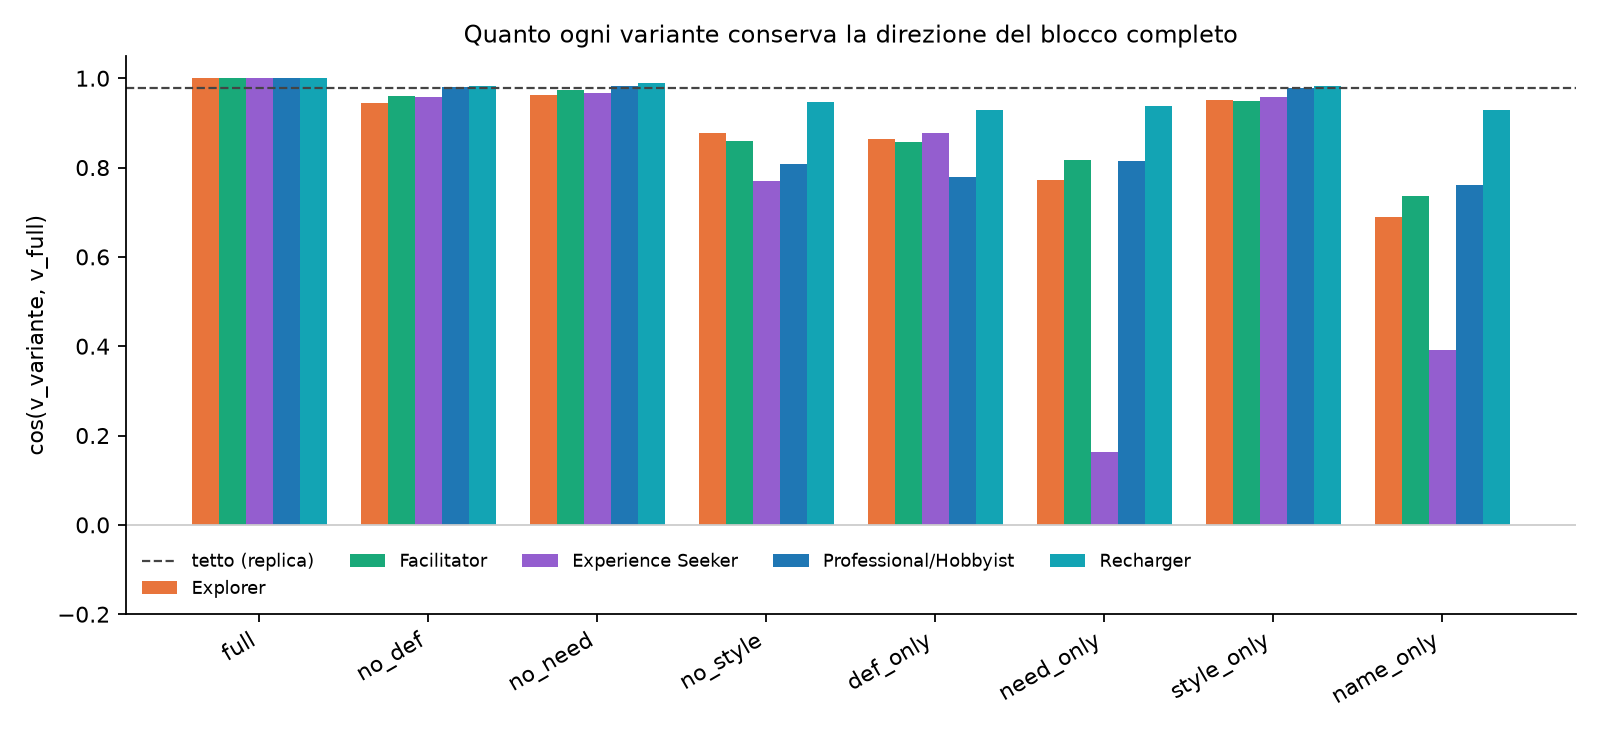
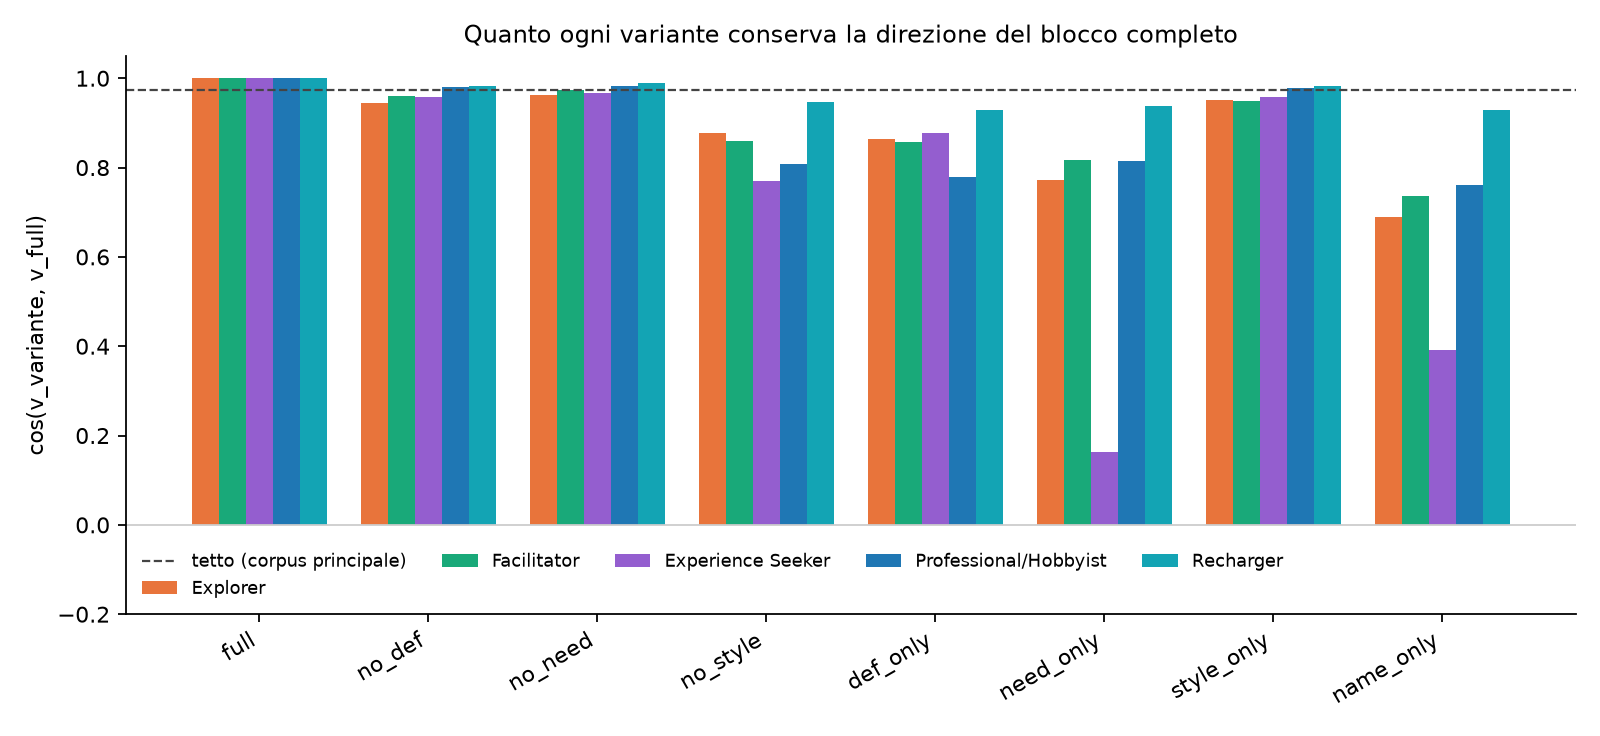
refactor(ablation): calibrate with the main corpus ceiling again
Both corpora are on DeepInfra fp8, so part 1 uses one ceiling (single_a vs
single_b). Only the cos/tetto column changes, by at most 0.01.

Changed region(s): [[0.0938, 0.0938, 0.9688, 0.125], [0.1562, 0.75, 0.8125, 0.7812]]

diff --git a/src/museumbot/rq1_embeddings/ablation.py b/src/museumbot/rq1_embeddings/ablation.py
@@ -10,14 +10,13 @@ ed e' lo stesso testo in tutte (embed.select_rows), quindi il riferimento e' ide
 varianti: con il centering sulla media, invece, il riferimento include le 5 categorie della
 variante e si sposterebbe con essa, contaminando il confronto con `full`.
 
-Corpus: `ablation` (common.corpus): tutte le varianti, la replica `full_rep` e il flat,
-generati su un provider fisso (DeepInfra fp8, ragionamento attivo) nella stessa sessione,
-puliti e senza le opere con testi troncati.
+Corpus: `ablation` (common.corpus): le varianti e il flat, generati su un provider fisso
+(DeepInfra fp8, ragionamento attivo), puliti e senza le opere con testi troncati.
 
 Calibrazione (`cos_rel`): il coseno con il full diviso per il tetto di rumore della
 generazione; ~1 vuol dire indistinguibile dal full, non soltanto "vicino". Il tetto e'
-cos(v_full, v_full_rep) dello stesso corpus: due run dello stesso prompt, stesso provider,
-stessa sessione, stesso flat.
+cos(v_full, v_full_rep) del corpus principale (results/metrics_<model>.json, sezione
+`ceiling`): due run dello stesso prompt sullo stesso provider.
 """
 
 import argparse
@@ -30,8 +29,7 @@ matplotlib.use("Agg")
 import matplotlib.pyplot as plt
 import numpy as np
 
-from museumbot.rq1_embeddings.analyze import (COLORS, center, load, probe, replicate_ceiling,
-                                               split_half, steering)
+from museumbot.rq1_embeddings.analyze import COLORS, center, load, probe, split_half, steering
 from museumbot.common.config import ROOT, emb_path
 from museumbot.common.prompts import CONDITIONS, FALK_CATEGORIES, LABELS, VARIANTS
 
@@ -92,21 +90,19 @@ def run(model: str) -> dict:
         per_variant[v], _ = analyse_variant(model, v, V_full)
 
     out = {"model": model, "variants": per_variant}
-    ceiling = own_ceiling(model)
+    ceiling = main_ceiling(model)
     if ceiling:
         out["ceiling"] = ceiling
         calibrate(per_variant, ceiling)
     return out
 
 
-def own_ceiling(model: str) -> dict[str, float] | None:
-    """Tetto del corpus: cos(v_full, v_full_rep) per categoria, sulle opere comuni."""
-    if not emb_path(model, "full_rep", CORPUS).exists():
+def main_ceiling(model: str) -> dict[str, float] | None:
+    """Tetto del corpus principale: cos(v_full, v_full_rep) per categoria."""
+    path = RESULTS / f"metrics_{model}.json"
+    if not path.exists():
         return None
-    X, arts, _ = load(model, "full", CORPUS)
-    Xr, arts_r, _ = load(model, "full_rep", CORPUS)
-    ceil = replicate_ceiling(X, arts, Xr, arts_r)
-    return {LABELS[c]: float(ceil[i]) for i, c in enumerate(FALK_CATEGORIES)}
+    return json.loads(path.read_text()).get("ceiling")
 
 
 def calibrate(per_variant: dict, ceiling: dict[str, float], key: str = "cos_rel") -> None:
@@ -132,7 +128,7 @@ def print_summary(res: dict) -> None:
             line += f" {r['cos_rel_mean']:10.3f}"
         print(line)
     if calibrated:
-        print("tetto (replica): "
+        print("tetto (corpus principale): "
               + "  ".join(f"{c} {v:.3f}" for c, v in res["ceiling"].items()))
 
 def fig_bars(res: dict, path: Path) -> None:
@@ -149,7 +145,7 @@ def fig_bars(res: dict, path: Path) -> None:
               w, color=COLORS[c], label=LABELS[c])
     if ceil:
         b.axhline(np.mean(list(ceil.values())), color="#444", ls="--", lw=1,
-                  label="tetto (replica)")
+                  label="tetto (corpus principale)")
     b.axhline(0, color="#ccc", lw=0.8)
     b.set_ylabel("cos(v_variante, v_full)")
     b.set_ylim(-0.2, 1.05)

diff --git a/docs/report-stato-progetto.md b/docs/report-stato-progetto.md
@@ -1,6 +1,6 @@
 # Museumbot — stato del progetto
 
-*Ultimo aggiornamento: 28 ottobre 2026. Il report descrive solo lo stato attuale del codice e
+*Ultimo aggiornamento: 29 ottobre 2026. Il report descrive solo lo stato attuale del codice e
 dei risultati; le decisioni e le correzioni nel tempo sono in `docs/decisioni.md`.*
 
 **Domanda di ricerca.** Quando un LLM genera un'audioguida "personalizzata" su una
@@ -60,11 +60,10 @@ ragionamento. Per questo:
   esplicitamente, provider registrato per riga e generati nella stessa sessione.
   `single_a` è la variante `full`, `single_b` la sua replica (`full_rep`), che dà il tetto
   di rumore; 140 testi su 1 100 hanno richiesto più di un tentativo;
-- il **corpus di ablazione** (`ablation`) ha le 8 varianti del blocco (§6), la replica
+- il **corpus di ablazione** (`ablation`) ha le 8 varianti del blocco (§6), una replica
   `full_rep` e il flat: anche questo tutto su DeepInfra fp8, con ragionamento attivato
-  esplicitamente e provider registrato per riga, in un'unica esecuzione del 27–28 ottobre
-  (rallentata dai limiti di frequenza del provider). È separato dal corpus principale: ha
-  un suo `full`, un suo flat e un suo tetto.
+  esplicitamente e provider registrato per riga. Ha un suo `full` e un suo flat; per la
+  calibrazione usa il tetto del corpus principale, che viene dallo stesso provider.
 
 `generate.py` salva il provider e i token di ragionamento di ogni risposta e accetta
 `--provider` (es. `deepinfra/fp8`) per fissarlo senza fallback e `--reasoning` per attivare
@@ -257,8 +256,7 @@ rigenera tutti i testi da capo, e la direzione di ogni categoria torna quasi ide
 valori sono più alti della split-half perché ogni stima usa 100 opere invece di 50. Sono
 più bassi per Explorer e Facilitator, che hanno gli shift più corti (§3.5): a parità di
 rumore, uno shift piccolo ne è disturbato di più. Questi valori sono il tetto usato per
-calibrare il confronto con la chain (§5); l'ablazione ha un tetto suo, dalla sua replica
-(§6.3).
+calibrare il confronto con la chain (§5) e l'ablazione (§6).
 
 ### 3.5 Geometria
 
@@ -494,16 +492,16 @@ confronto con il full.
 ### 6.1 Risultati per variante (Qwen3; BGE-M3 fra parentesi)
 
 Ordinate per coseno medio con il full. `cos/tetto` è il coseno con il full diviso per il
-coseno fra `full` e la sua replica `full_rep` nello stesso corpus (§6.3).
+tetto del corpus principale (§3.4, §6.3).
 
 | variante | probe 5 classi | ‖v‖ media | cos·full | cos/tetto | split-half |
 |---|---|---|---|---|---|
 | `full` | 98.2% (97.2%) | 0.235 (0.152) | 1.000 (1.000) | — | 0.88 (0.83) |
-| `no_need` | 99.2% (97.0%) | 0.240 (0.152) | 0.975 (0.948) | 1.00 (1.00) | 0.90 (0.84) |
+| `no_need` | 99.2% (97.0%) | 0.240 (0.152) | 0.975 (0.948) | 1.00 (0.99) | 0.90 (0.84) |
 | `no_def` | 98.2% (98.2%) | 0.234 (0.147) | 0.965 (0.945) | 0.99 (0.99) | 0.90 (0.83) |
-| `style_only` | 97.2% (97.0%) | 0.230 (0.145) | 0.964 (0.926) | 0.98 (0.97) | 0.89 (0.81) |
-| `def_only` | 97.0% (96.2%) | 0.180 (0.126) | 0.861 (0.864) | 0.88 (0.91) | 0.82 (0.77) |
-| `no_style` | 94.2% (92.4%) | 0.173 (0.119) | 0.853 (0.877) | 0.87 (0.92) | 0.81 (0.78) |
+| `style_only` | 97.2% (97.0%) | 0.230 (0.145) | 0.964 (0.926) | 0.99 (0.97) | 0.89 (0.81) |
+| `def_only` | 97.0% (96.2%) | 0.180 (0.126) | 0.861 (0.864) | 0.88 (0.90) | 0.82 (0.77) |
+| `no_style` | 94.2% (92.4%) | 0.173 (0.119) | 0.853 (0.877) | 0.88 (0.92) | 0.81 (0.78) |
 | `name_only` | 87.0% (83.6%) | 0.146 (0.104) | 0.702 (0.681) | 0.72 (0.71) | 0.68 (0.63) |
 | `need_only` | 90.4% (89.8%) | 0.158 (0.111) | 0.701 (0.735) | 0.72 (0.77) | 0.76 (0.74) |
 
@@ -545,18 +543,15 @@ dal nome.
 
 ### 6.3 Calibrazione
 
-Il tetto è quello del corpus di ablazione (sezione `ceiling` di `results/ablation_*.json`):
-il coseno fra gli steering vector di `full` e della replica `full_rep`, generati con lo
-stesso provider e con lo stesso flat. Vale 0.969, 0.972, 0.980, 0.985, 0.990 per Explorer,
-Facilitator, Experience Seeker, Professional/Hobbyist, Recharger (0.934, 0.897, 0.970,
-0.974, 0.987 su BGE-M3), in linea con il tetto del corpus principale (§3.4). `full` è
-stato generato il 27 ottobre e quasi tutta la replica il 28: un'eventuale deriva fra i due
-giorni abbasserebbe il tetto e renderebbe i rapporti conservativi.
+Il tetto è quello del corpus principale (§3.4): il coseno fra gli steering vector di
+`single_a` e `single_b`, due run dello stesso prompt sullo stesso provider del corpus di
+ablazione. Vale 0.957, 0.958, 0.980, 0.985, 0.990 per Explorer, Facilitator, Experience
+Seeker, Professional/Hobbyist, Recharger (0.937, 0.905, 0.973, 0.977, 0.985 su BGE-M3).
 
 Rapportate al tetto (colonna `cos/tetto` in §6.1), `no_need` vale 1.00 e `no_def` 0.99
-(1.00 e 0.99 su BGE-M3): togliere la definizione o il bisogno **non lascia traccia misurabile oltre
-al rumore**. `style_only` è a 0.98 (0.97). Togliere lo stile costa il 13% su Qwen3 e l'8% su
-BGE-M3, `need_only` e `name_only` fra il 23% e il 29%.
+(0.99 e 0.99 su BGE-M3): togliere la definizione o il bisogno **non lascia traccia misurabile
+oltre al rumore**. `style_only` è a 0.99 (0.97). Togliere lo stile costa il 12% su Qwen3 e
+l'8% su BGE-M3, `need_only` e `name_only` fra il 23% e il 29%.
 
 ### 6.4 Implicazione per il prompt
 
@@ -566,7 +561,7 @@ cambia). Per lo studio scientifico l'ablazione dice che quello che
 il paper chiama "adattamento alla categoria di Falk" è, nel modello, in larga parte
 l'esecuzione di un'istruzione stilistica esplicita, e in misura minore l'evocazione di uno
 stereotipo associato al nome. La definizione sociologica della categoria non aggiunge
-nulla di misurabile quando lo stile è presente (al più il 2%, §6.3).
+nulla di misurabile quando lo stile è presente (al più l'1%, §6.3).
 
 ## 7. RQ2: un giudice LLM con persona preferisce il testo personalizzato?
 

diff --git a/docs/decisioni.md b/docs/decisioni.md
@@ -729,3 +729,16 @@ segno (`sentence_sum_mean`) invece che in valore assoluto.
 valore assoluto dava solo l'intensità, positiva per costruzione.
 **Effetto.** Valori ritirati della somma assoluta media: 12.7, 8.4, 4.4 (Rech.–Prof.,
 Fac.–Prof., Expl.–Fac.); nuovi valori con segno: +3.1, +0.3, +0.7.
+
+## 2026-10-29 — Ablazione: di nuovo il tetto del corpus principale
+
+**Decisione.** `ablation.py` torna a calibrare con il tetto del corpus principale
+(`single_a` contro `single_b`, sezione `ceiling` di `results/metrics_*.json`) invece che con
+la replica `full_rep` del corpus di ablazione. I testi `full_rep` dell'ablazione restano nei
+dati, inutilizzati.
+**Motivo.** Il criterio per confrontare testi è lo stesso provider, e i due corpus sono
+entrambi su DeepInfra fp8: un solo tetto per tutta la parte 1.
+**Effetto.** Cambia solo la colonna `cos/tetto`, di al più 0.01 (Qwen3 `style_only` 0.98 →
+0.99, `no_style` 0.87 → 0.88; BGE-M3 `no_need` 1.00 → 0.99, `def_only` 0.91 → 0.90). Il
+costo di togliere lo stile passa dal 13% al 12% su Qwen3; la definizione, con lo stile
+presente, aggiunge al più l'1%.
